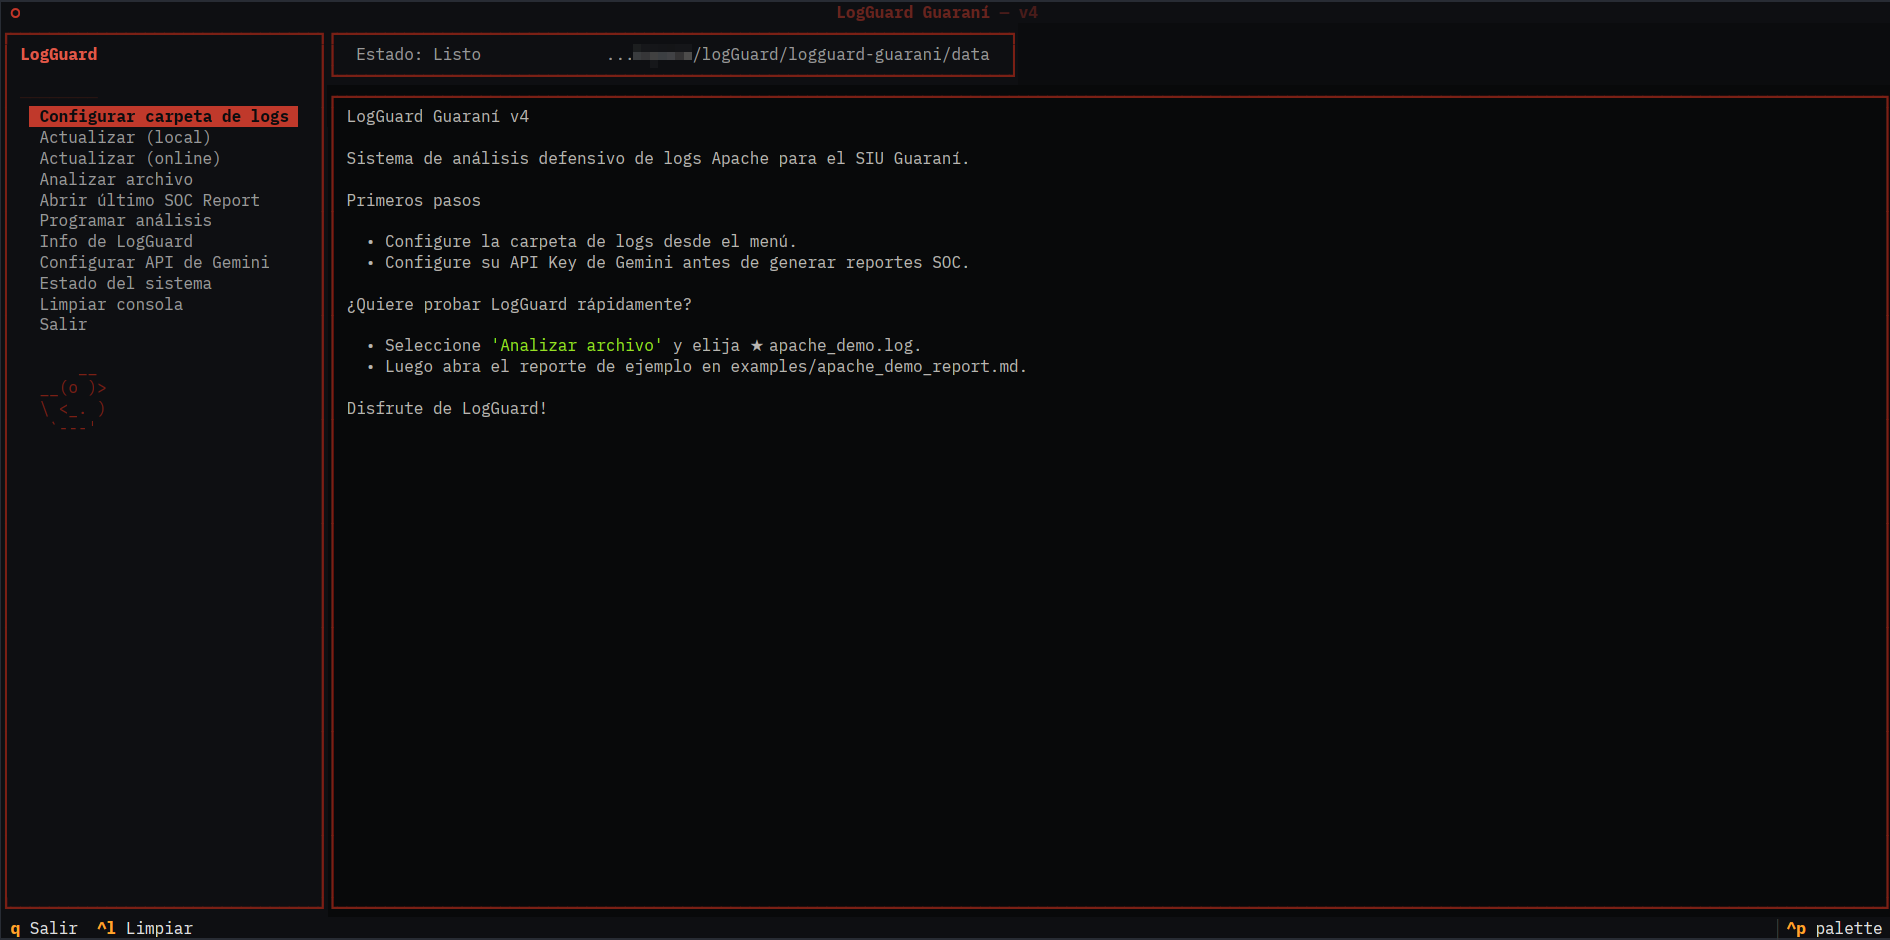
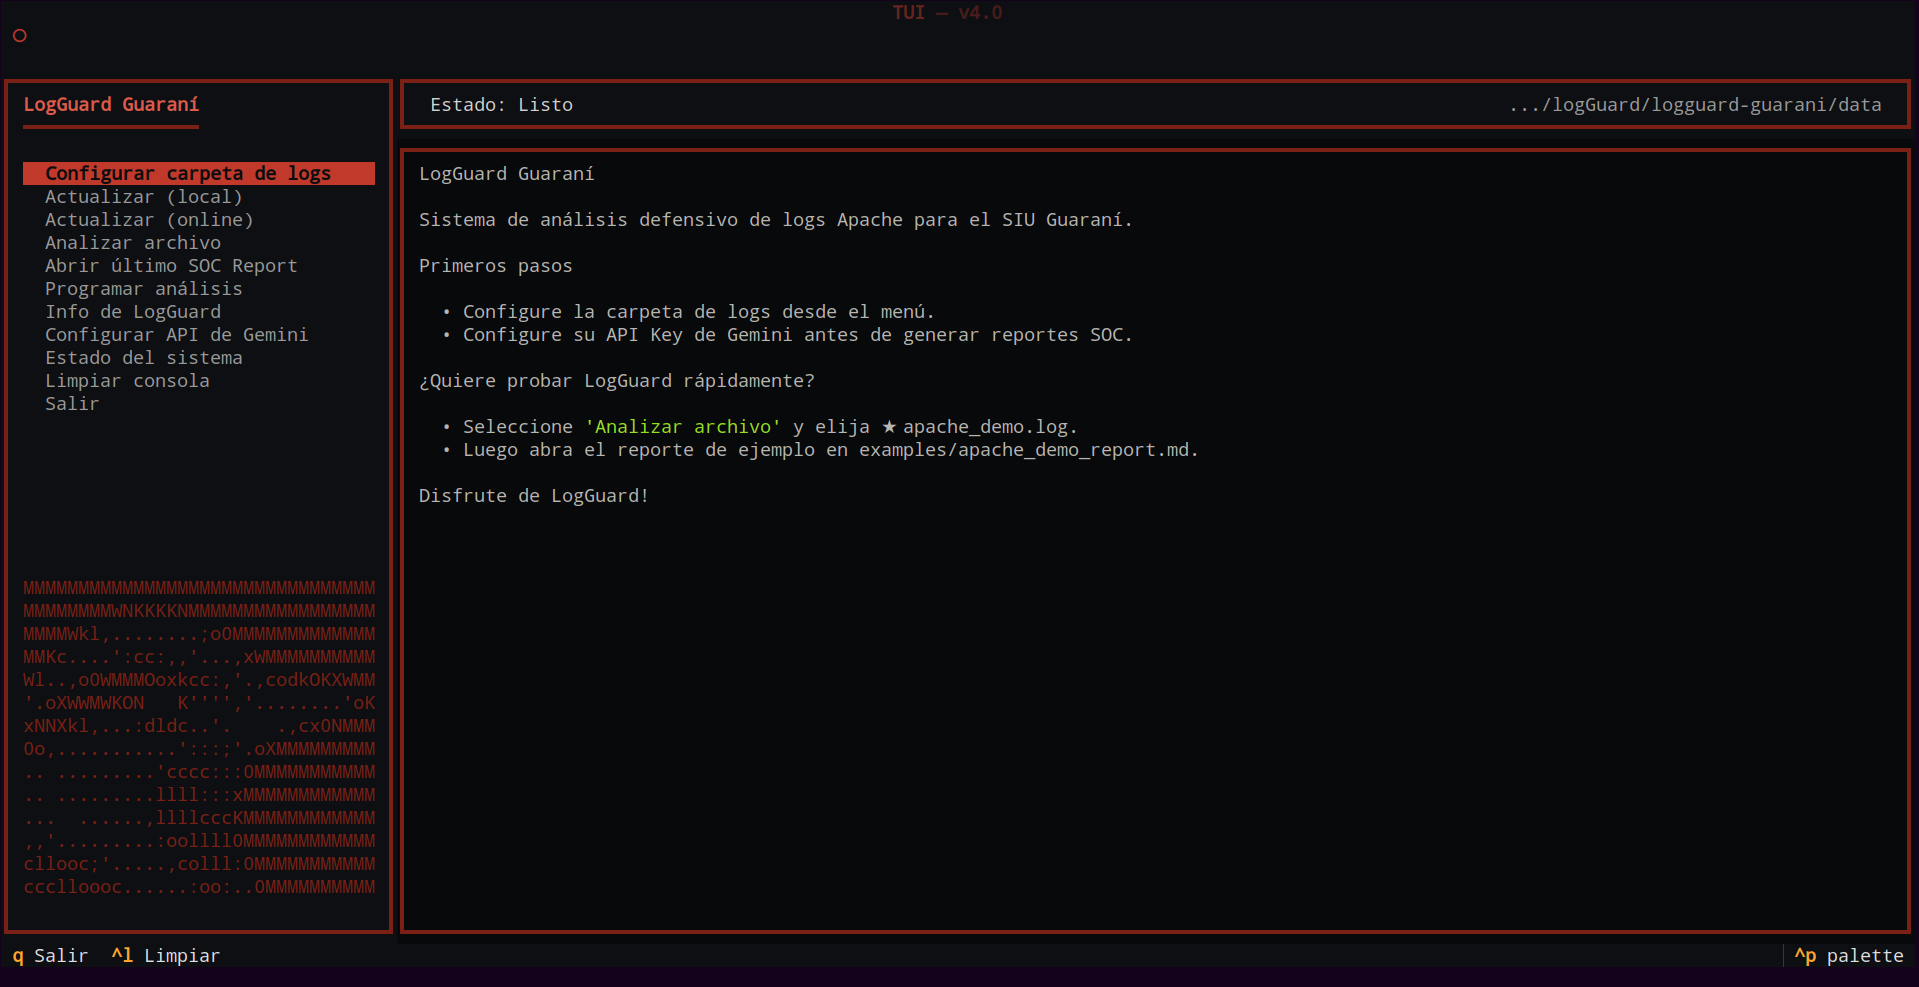
img home

Changed region(s): [[0.0, 0.0, 1.0, 1.0]]

diff --git a/README.md b/README.md
@@ -13,7 +13,6 @@
   <p>
     <img alt="License" src="https://img.shields.io/badge/license-GPLv3-blue">
     <img alt="Python" src="https://img.shields.io/badge/python-3.11%2B-blue">
-    <img alt="Docker" src="https://img.shields.io/badge/docker-ready-2496ED">
     <img alt="Docs" src="https://img.shields.io/badge/docs-GitHub%20Pages-success">
     <img alt="Status" src="https://img.shields.io/badge/status-proof--of--concept-yellow">
   </p>
@@ -26,7 +25,6 @@
     🐛 <a href="https://github.com/snsanchez/logguard-guarani/issues">Reportar un problema</a>
   </p>
 </div>
-
 
 Combina detección heurística, clasificación mediante Machine Learning, enriquecimiento con inteligencia de amenazas y un **agente SOC** asistido por IA para ayudar al analista a interpretar eventos de alto riesgo.
 
@@ -46,20 +44,21 @@ El proyecto fue desarrollado como prueba de concepto en el LIA (Laboratorio de I
 - Interfaz CLI para automatización
 - Arquitectura modular y extensible
 
-
-| Funcionalidad                     | CLI | TUI |
-| ----------------------------------| :-: | :-: |
-| Analizar logs                     |  ✅  |  ✅  |
-| Actualización de conocimiento     |  ✅  |  ✅  |
-| Reportes SOC                      |  ✅  |  ✅  |
-| Renderizado Markdown              |  ❌  |  ✅  |
-| Selector de archivos interactivo  |  ❌  |  ✅  |
-| Configuración persistente         |  ❌  |  ✅  |
+| Funcionalidad                    | CLI | TUI |
+| -------------------------------- | :-: | :-: |
+| Analizar logs                    | ✅  | ✅  |
+| Actualización de conocimiento    | ✅  | ✅  |
+| Reportes SOC                     | ✅  | ✅  |
+| Renderizado Markdown             | ❌  | ✅  |
+| Selector de archivos interactivo | ❌  | ✅  |
+| Configuración persistente        | ❌  | ✅  |
 
 ---
 
 # Interfaz TUI
+
 Ingrese con:
+
 ```bash
 python3 src/tui/app.py
 ```
@@ -92,7 +91,7 @@ Toda la lógica continúa ejecutándose mediante la CLI oficial de LogGuard, por
 
 # Interfaz CLI
 
-Resulta ideal para automatización, cron, Docker y servidores sin interfaz interactiva.
+Resulta ideal para automatización, cron y servidores sin interfaz interactiva.
 
 Ejemplo básico:
 
@@ -165,8 +164,6 @@ La API Key puede obtenerse gratuitamente desde: https://aistudio.google.com/
 
 ---
 
-
-
 ### Pipeline de análisis
 
 ```
@@ -194,37 +191,12 @@ Markdown Report
 > Para el detalle completo de cada etapa, modelos de datos y la separación entre el pipeline de detección (determinístico) y el de razonamiento (agente SOC), ver la [documentación de arquitectura](https://snsanchez.github.io/logguard-guarani/#architecture-overview).
 
 ---
-# Docker
-
-La imagen Docker incluye la aplicación completa:
-
-- CLI
-- TUI
-- Base de conocimiento
-- SOC Agent
-
-Construcción:
-
-```bash
-docker build \
-    -t san2s/logguard-guarani:4.0 .
-```
-
-Ejecución mediante CLI:
-
-```bash
-docker run --rm \
-    -v /ruta/logs:/data \
-    san2s/logguard-guarani:4.0 \
-    /data/access.log
-```
----
 
 ## Cómo citar
 
 Si utilizás LogGuard Guaraní en un trabajo académico o de investigación, podés citar el short paper asociado al proyecto:
 
-> Sánchez, S. N., García, N., Castro, N. (2026). *LogGuard Guaraní: Plataforma Inteligente para el Análisis Defensivo de Logs Apache mediante un Agente SOC e Inteligencia de Amenazas*. Universidad Nacional de Río Negro — Laboratorio de Informática Aplicada (LIA).
+> Sánchez, S. N., García, N., Castro, N. (2026). _LogGuard Guaraní: Plataforma Inteligente para el Análisis Defensivo de Logs Apache mediante un Agente SOC e Inteligencia de Amenazas_. Universidad Nacional de Río Negro — Laboratorio de Informática Aplicada (LIA).
 
 El artículo completo, con metodología, resultados y referencias, está disponible en la [sección Short Paper de la documentación](https://snsanchez.github.io/logguard-guarani/#paper).
 
@@ -235,6 +207,7 @@ El artículo completo, con metodología, resultados y referencias, está disponi
 - Santiago Nicolás Sánchez
 - Nicolás García
 - Nicolás Castro
+
 ---
 
 ## Contribuciones
@@ -242,6 +215,7 @@ El artículo completo, con metodología, resultados y referencias, está disponi
 ¿Encontraste un bug o tenés una idea para mejorar el proyecto? Los [issues](https://github.com/snsanchez/logguard-guarani/issues) y pull requests son bienvenidos. Si vas a proponer un cambio grande, abrí primero un issue para discutirlo.
 
 ---
+
 ## Seguridad
 
 Este repositorio no contiene logs institucionales ni información sensible.
@@ -249,6 +223,7 @@ Este repositorio no contiene logs institucionales ni información sensible.
 Todos los ejemplos incluidos fueron generados exclusivamente con fines educativos y de demostración.
 
 ---
+
 ## Licencia
 
 Distribuido bajo licencia **GPL v3**. Ver [`LICENSE`](LICENSE) para más información.
